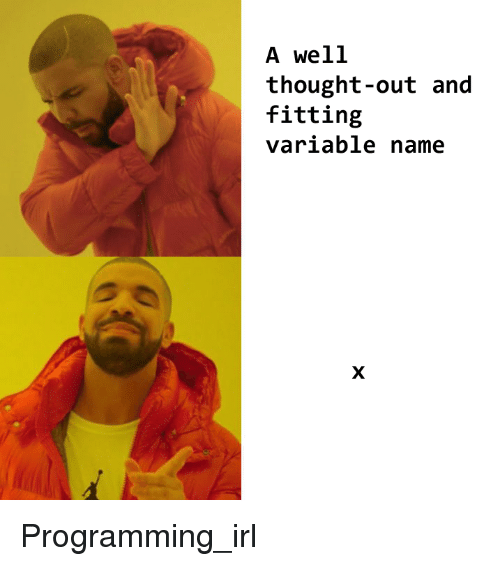
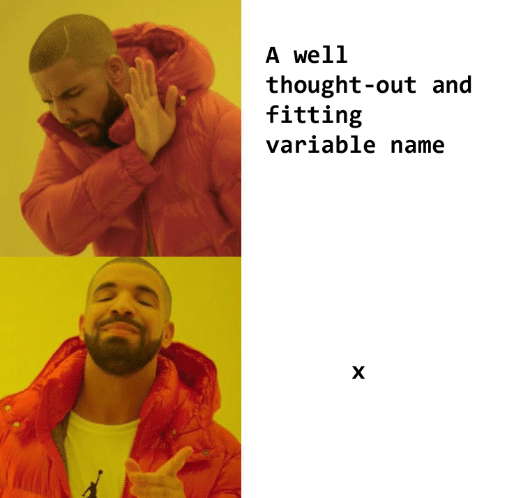
fixed imgs maybe

diff --git a/docs/c2c/naming_variables.rst b/docs/c2c/naming_variables.rst
@@ -5,7 +5,7 @@ Naming variables is crucial to have a clean and understandable code. When chosin
 
 .. _varNameDrake:                  
 .. figure:: imgs/varNameX.png
-    :scale: 70%
+    :scale: 50%
     :alt: variable name meme drake
     :align: center
 
@@ -21,7 +21,7 @@ Before we start with the specifics of our customJS code, it is important to reme
 
 .. _varNameDecision:                  
 .. figure:: imgs/varName.jpg
-    :scale: 70%
+    :scale: 50%
     :alt: Choosing variable name meme
     :align: center
 
@@ -84,8 +84,8 @@ A word on authoritarianism
 At Omni we have never supported any kind of authoritarian regime, and naming conventions are no exception. As much as some would like to have strict rules with punishments for those not complying, we prefer to fight on the side of freedom. 
 
 .. _varNameMeaningful:                  
-.. figure:: varNameMeaningful.jpg
-    :scale: 70%
+.. figure:: imgs/varNameMeaningful.jpg
+    :scale: 50%
     :alt: Choosing meaningful name meme
     :align: center
 

diff --git a/docs/c2c/clickVsCode.rst b/docs/c2c/clickVsCode.rst
@@ -16,7 +16,7 @@ If your calculator has little or no customJS, then use the click-based solution,
 
 .. _clickVsCode:                  
 .. figure:: imgs/clickVsCode.png
-    :scale: 80%
+    :scale: 60%
     :alt: creating value select code vs click
     :align: center
 
